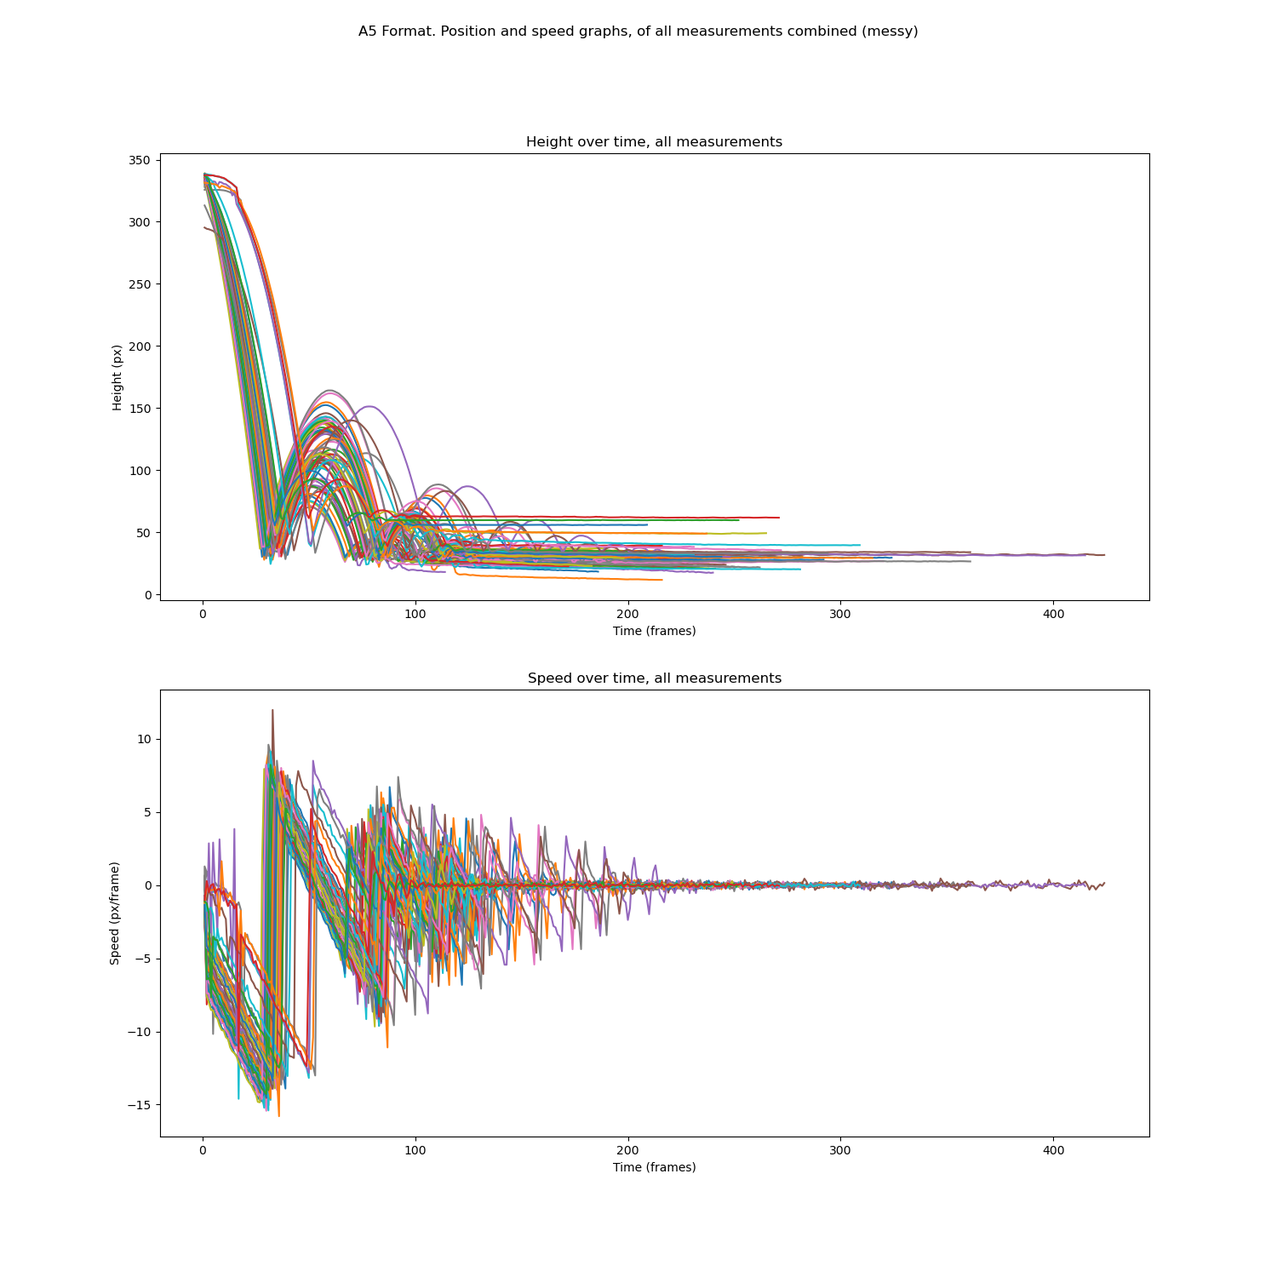
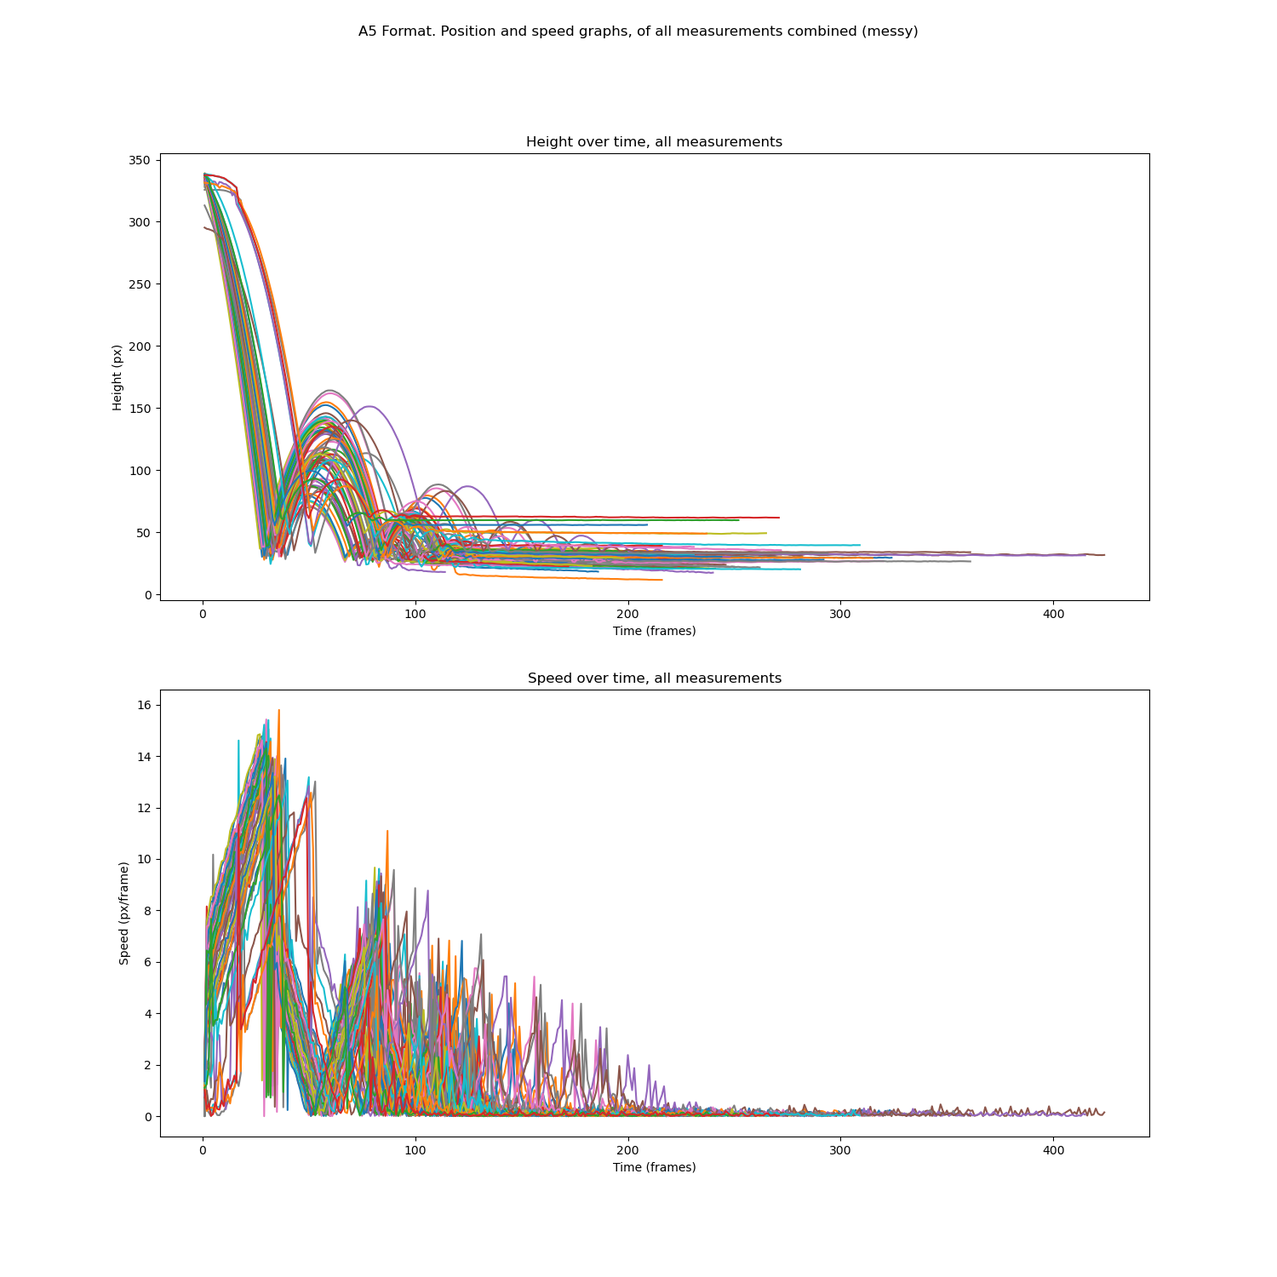
Added debugging tools, fixed CoR Height calculation

Changed region(s): [[0.1533, 0.552, 0.8587, 0.8893], [0.092, 0.6747, 0.1227, 0.7667]]

diff --git a/Code/AVG_SIGMA_PLOTTER.py b/Code/AVG_SIGMA_PLOTTER.py
@@ -9,9 +9,14 @@ import csv as csv
 import statistics as stat
 
 
-A4_CSV = open('E:/Documents/GitHub/2025-Projects_Team-1-Bouncing-on-Paper-The-Surprising-Restitution-Coefficient-of-a-Paper-Stack-/Code/A4_sanitized_data.csv', 'r')
-A5_B_CSV = open('E:/Documents/GitHub/2025-Projects_Team-1-Bouncing-on-Paper-The-Surprising-Restitution-Coefficient-of-a-Paper-Stack-/Code/A5_B_sanitized_data.csv', 'r')
-A5_O_CSV = open('E:/Documents/GitHub/2025-Projects_Team-1-Bouncing-on-Paper-The-Surprising-Restitution-Coefficient-of-a-Paper-Stack-/Code/A5_O_sanitized_data.csv', 'r')
+# A4_CSV = open('E:/Documents/GitHub/2025-Projects_Team-1-Bouncing-on-Paper-The-Surprising-Restitution-Coefficient-of-a-Paper-Stack-/Code/A4_sanitized_data.csv', 'r')
+# A5_B_CSV = open('E:/Documents/GitHub/2025-Projects_Team-1-Bouncing-on-Paper-The-Surprising-Restitution-Coefficient-of-a-Paper-Stack-/Code/A5_B_sanitized_data.csv', 'r')
+# A5_O_CSV = open('E:/Documents/GitHub/2025-Projects_Team-1-Bouncing-on-Paper-The-Surprising-Restitution-Coefficient-of-a-Paper-Stack-/Code/A5_O_sanitized_data.csv', 'r')
+
+A4_CSV = open('C:/Users/salad/Documents/GitHub/2025-Projects_Team-1-Bouncing-on-Paper-The-Surprising-Restitution-Coefficient-of-a-Paper-Stack-/Code/A4_sanitized_data.csv', 'r')
+A5_B_CSV = open('C:/Users/salad/Documents/GitHub/2025-Projects_Team-1-Bouncing-on-Paper-The-Surprising-Restitution-Coefficient-of-a-Paper-Stack-/Code/A5_B_sanitized_data.csv', 'r')
+A5_O_CSV = open('C:/Users/salad/Documents/GitHub/2025-Projects_Team-1-Bouncing-on-Paper-The-Surprising-Restitution-Coefficient-of-a-Paper-Stack-/Code/A5_O_sanitized_data.csv', 'r')
+
 
 with A4_CSV as A4:
     A4_papier_lijst = []
@@ -22,16 +27,16 @@ with A4_CSV as A4:
 
     A4_compressed_papier_lijst = []
     A4_avg_h_lijst = []
-    A4_sigma_h_lijst = []
+    A4_fout_h_lijst = []
     A4_avg_v_lijst = []
-    A4_sigma_v_lijst = []
+    A4_fout_v_lijst = []
 
     for row in A4:
         column = row.split(',')
 
         if column[0] != 'A4_papier_lijst':
             A4_papier_lijst.append(int(column[0]))
-            A4_coefficienten_1_h_lijst.append(float(column[1]))
+            A4_coefficienten_1_h_lijst.append(np.sqrt(float(column[1])))
             A4_fout_coefficienten_1_h_lijst.append(float(column[2]))
             A4_coefficienten_1_v_lijst.append(float(column[3]))
             A4_fout_coefficienten_1_v_lijst.append(float(column[4]))
@@ -40,11 +45,13 @@ with A4_CSV as A4:
         if A4_papier_lijst[papier] == A4_papier_lijst[papier + 1] == A4_papier_lijst[papier + 2]:
             A4_compressed_papier_lijst.append(A4_papier_lijst[papier])
             A4_temp_h_list = [A4_coefficienten_1_h_lijst[papier], A4_coefficienten_1_h_lijst[papier + 1], A4_coefficienten_1_h_lijst[papier + 2]]
+            A4_fout_temp_h_list = [A4_fout_coefficienten_1_h_lijst[papier], A4_fout_coefficienten_1_h_lijst[papier + 1], A4_fout_coefficienten_1_h_lijst[papier + 2]]
             A4_avg_h_lijst.append(float(np.mean(A4_temp_h_list)))
-            A4_sigma_h_lijst.append(float(np.std(A4_temp_h_list)))
+            A4_fout_h_lijst.append(float(np.sqrt(np.std(A4_temp_h_list) + np.var(A4_fout_temp_h_list))))
             A4_temp_v_list = [A4_coefficienten_1_v_lijst[papier], A4_coefficienten_1_v_lijst[papier + 1], A4_coefficienten_1_v_lijst[papier + 2]]
+            A4_fout_temp_v_list = [A4_fout_coefficienten_1_v_lijst[papier], A4_fout_coefficienten_1_v_lijst[papier + 1], A4_fout_coefficienten_1_v_lijst[papier + 2]]
             A4_avg_v_lijst.append(float(np.mean(A4_temp_v_list)))
-            A4_sigma_v_lijst.append(float(np.std(A4_temp_v_list)))
+            A4_fout_v_lijst.append(float(np.sqrt(np.std(A4_temp_v_list) + np.var(A4_fout_temp_v_list))))
         
 
     A4_CSV.close()
@@ -59,16 +66,16 @@ with A5_B_CSV as A5_B:
 
     A5_compressed_papier_lijst = []
     A5_avg_h_B_lijst = []
-    A5_sigma_h_B_lijst = []
+    A5_fout_h_B_lijst = []
     A5_avg_v_B_lijst = []
-    A5_sigma_v_B_lijst = []
+    A5_fout_v_B_lijst = []
 
     for row in A5_B:
         column = row.split(',')
 
         if column[0] != 'A5_papier_lijst':
             A5_papier_lijst.append(int(column[0]))
-            A5_coefficienten_1_h_B_lijst.append(float(column[1]))
+            A5_coefficienten_1_h_B_lijst.append(np.sqrt(float(column[1])))
             A5_fout_coefficienten_1_h_B_lijst.append(float(column[2]))
             A5_coefficienten_1_v_B_lijst.append(float(column[3]))
             A5_fout_coefficienten_1_v_B_lijst.append(float(column[4]))
@@ -77,11 +84,13 @@ with A5_B_CSV as A5_B:
         if A5_papier_lijst[papier] == A5_papier_lijst[papier + 1]:
             A5_compressed_papier_lijst.append(A5_papier_lijst[papier])
             A5_temp_h_B_list = [A5_coefficienten_1_h_B_lijst[papier], A5_coefficienten_1_h_B_lijst[papier + 1]]
+            A5_fout_temp_h_B_list = [A5_fout_coefficienten_1_h_B_lijst[papier], A5_fout_coefficienten_1_h_B_lijst[papier + 1]]
             A5_avg_h_B_lijst.append(float(np.mean(A5_temp_h_B_list)))
-            A5_sigma_h_B_lijst.append(float(np.std(A5_temp_h_B_list)))
+            A5_fout_h_B_lijst.append(float(np.sqrt(np.std(A5_temp_h_B_list) + np.var(A5_fout_temp_h_B_list))))
             A5_temp_v_B_list = [A5_coefficienten_1_v_B_lijst[papier], A5_coefficienten_1_v_B_lijst[papier + 1]]
+            A5_fout_temp_v_B_list = [A5_fout_coefficienten_1_v_B_lijst[papier], A5_fout_coefficienten_1_v_B_lijst[papier + 1]]
             A5_avg_v_B_lijst.append(float(np.mean(A5_temp_v_B_list)))
-            A5_sigma_v_B_lijst.append(float(np.std(A5_temp_v_B_list)))
+            A5_fout_v_B_lijst.append(float(np.sqrt(np.std(A5_temp_v_B_list) + np.var(A5_fout_temp_v_B_list))))
         
 
     A5_B_CSV.close()
@@ -96,16 +105,16 @@ with A5_O_CSV as A5_O:
 
     A5_compressed_papier_lijst = []
     A5_avg_h_O_lijst = []
-    A5_sigma_h_O_lijst = []
+    A5_fout_h_O_lijst = []
     A5_avg_v_O_lijst = []
-    A5_sigma_v_O_lijst = []
+    A5_fout_v_O_lijst = []
 
     for row in A5_O:
         column = row.split(',')
 
         if column[0] != 'A5_papier_lijst':
             A5_papier_lijst.append(int(column[0]))
-            A5_coefficienten_1_h_O_lijst.append(float(column[1]))
+            A5_coefficienten_1_h_O_lijst.append(np.sqrt(float(column[1])))
             A5_fout_coefficienten_1_h_O_lijst.append(float(column[2]))
             A5_coefficienten_1_v_O_lijst.append(float(column[3]))
             A5_fout_coefficienten_1_v_O_lijst.append(float(column[4]))
@@ -114,11 +123,13 @@ with A5_O_CSV as A5_O:
         if A5_papier_lijst[papier] == A5_papier_lijst[papier + 1]:
             A5_compressed_papier_lijst.append(A5_papier_lijst[papier])
             A5_temp_h_O_list = [A5_coefficienten_1_h_O_lijst[papier], A5_coefficienten_1_h_O_lijst[papier + 1]]
+            A5_fout_temp_h_O_list = [A5_fout_coefficienten_1_h_O_lijst[papier], A5_fout_coefficienten_1_h_O_lijst[papier + 1]]
             A5_avg_h_O_lijst.append(float(np.mean(A5_temp_h_O_list)))
-            A5_sigma_h_O_lijst.append(float(np.std(A5_temp_h_O_list)))
+            A5_fout_h_O_lijst.append(float(np.sqrt(np.std(A5_temp_h_O_list) + np.var(A5_fout_temp_h_O_list))))
             A5_temp_v_O_list = [A5_coefficienten_1_v_O_lijst[papier], A5_coefficienten_1_v_O_lijst[papier + 1]]
+            A5_fout_temp_v_O_list = [A5_fout_coefficienten_1_v_O_lijst[papier], A5_fout_coefficienten_1_v_O_lijst[papier + 1]]
             A5_avg_v_O_lijst.append(float(np.mean(A5_temp_v_O_list)))
-            A5_sigma_v_O_lijst.append(float(np.std(A5_temp_v_O_list)))
+            A5_fout_v_O_lijst.append(float(np.sqrt(np.std(A5_temp_v_O_list) + np.var(A5_fout_temp_v_O_list))))
         
 
     A5_O_CSV.close()
@@ -128,15 +139,15 @@ plt.figure(1, figsize=(15, 5))
 plt.suptitle('A4 and A5 format combined. Restitutioncoefficient, calculated with h1/h0 and v1/v0. Average of all measurements with standard deviation')
 plt.subplot(121)
 plt.title('h1/h0 calculation')
-plt.errorbar(A4_compressed_papier_lijst, A4_avg_h_lijst, yerr=A4_sigma_h_lijst, capsize=3, fmt='o', ecolor = "black", label='A4 data and standard deviation', markersize='5')
-plt.errorbar(A5_compressed_papier_lijst, A5_avg_h_B_lijst, yerr=A5_sigma_h_B_lijst, capsize=3, fmt='o', ecolor = "black", label='A5 data and standard deviation', markersize='5')
+plt.errorbar(A4_compressed_papier_lijst, A4_avg_h_lijst, yerr=A4_fout_h_lijst, capsize=3, fmt='o', ecolor = "black", label='A4 data and standard deviation', markersize='5')
+plt.errorbar(A5_compressed_papier_lijst, A5_avg_h_B_lijst, yerr=A5_fout_h_B_lijst, capsize=3, fmt='o', ecolor = "black", label='A5 data and standard deviation', markersize='5')
 plt.xlabel('# of paper pages (amount)')
 plt.ylabel('Restitutioncoefficient (ratio)')
 plt.legend()
 plt.subplot(122)
 plt.title('v1/v0 calculation')
-plt.errorbar(A4_compressed_papier_lijst, A4_avg_v_lijst, yerr=A4_sigma_v_lijst, capsize=3, fmt='o', ecolor = "black", label='A4 data and standard deviation', markersize='5')
-plt.errorbar(A5_compressed_papier_lijst, A5_avg_v_B_lijst, yerr=A5_sigma_v_B_lijst, capsize=3, fmt='o', ecolor = "black", label='A5 data and standard deviation', markersize='5')
+plt.errorbar(A4_compressed_papier_lijst, A4_avg_v_lijst, yerr=A4_fout_v_lijst, capsize=3, fmt='o', ecolor = "black", label='A4 data and standard deviation', markersize='5')
+plt.errorbar(A5_compressed_papier_lijst, A5_avg_v_B_lijst, yerr=A5_fout_v_B_lijst, capsize=3, fmt='o', ecolor = "black", label='A5 data and standard deviation', markersize='5')
 plt.xlabel('# of paper pages (amount)')
 plt.ylabel('Restitutioncoefficient (ratio)')
 plt.legend()
@@ -147,17 +158,44 @@ plt.figure(2, figsize=(15, 5))
 plt.suptitle('A5 format, dropped from half the height of original measurements. Restitutioncoefficient, calculated with h1/h0 and v1/v0. Average of all measurements with standard deviation')
 plt.subplot(221)
 plt.title('h1/h0 calculation')
-plt.errorbar(A5_compressed_papier_lijst, A5_avg_h_O_lijst, yerr=A5_sigma_h_O_lijst, capsize=3, fmt='o', ecolor = "black", label='A5', markersize='5', color='darkorange')
+plt.errorbar(A5_compressed_papier_lijst, A5_avg_h_O_lijst, yerr=A5_fout_h_O_lijst, capsize=3, fmt='o', ecolor = "black", label='A5', markersize='5', color='darkorange')
 plt.xlabel('# of paper pages (amount)')
 plt.ylabel('Restitutioncoefficient (ratio)')
 plt.legend()
 plt.subplot(222)
 plt.title('v1/v0 calculation')
-plt.errorbar(A5_compressed_papier_lijst, A5_avg_v_O_lijst, yerr=A5_sigma_v_O_lijst, capsize=3, fmt='o', ecolor = "black", label='A5', markersize='5', color='darkorange')
+plt.errorbar(A5_compressed_papier_lijst, A5_avg_v_O_lijst, yerr=A5_fout_v_O_lijst, capsize=3, fmt='o', ecolor = "black", label='A5', markersize='5', color='darkorange')
 plt.xlabel('# of paper pages (amount)')
 plt.ylabel('Restitutioncoefficient (ratio)')
 plt.legend()
 plt.savefig('A5_COR_LOW_AVG_SIGMA')
+
+
+plt.figure(3, figsize=(15, 5))
+plt.subplot(321)
+# plt.plot(A4_compressed_papier_lijst, A4_avg_h_lijst, 'o')
+plt.plot(A4_papier_lijst, A4_coefficienten_1_h_lijst, 'o')
+# plt.errorbar(A4_papier_lijst, A4_coefficienten_1_h_lijst, yerr=A4_fout_coefficienten_1_h_lijst, capsize=3, fmt='o', ecolor = "black", label='A4', markersize='5', color='darkorange')
+plt.subplot(322)
+# plt.errorbar(A4_papier_lijst, A4_coefficienten_1_v_lijst, yerr=A4_fout_coefficienten_1_v_lijst, capsize=3, fmt='o', ecolor = "black", label='A4', markersize='5', color='darkorange')
+# plt.plot(A4_compressed_papier_lijst, A4_avg_v_lijst, 'o')
+plt.plot(A4_papier_lijst, A4_coefficienten_1_v_lijst, 'o')
+
+plt.figure(4, figsize=(15, 5))
+plt.subplot(421)
+# plt.errorbar(A5_papier_lijst, A5_coefficienten_1_h_B_lijst, yerr=A5_fout_coefficienten_1_h_B_lijst, capsize=3, fmt='o', ecolor = "black", label='A5', markersize='5', color='darkorange')
+plt.plot(A5_papier_lijst, A5_coefficienten_1_h_B_lijst, 'o')
+plt.subplot(422)
+# plt.errorbar(A5_papier_lijst, A5_coefficienten_1_v_B_lijst, yerr=A5_fout_coefficienten_1_v_B_lijst, capsize=3, fmt='o', ecolor = "black", label='A5', markersize='5', color='darkorange')
+plt.plot(A5_papier_lijst, A5_coefficienten_1_v_B_lijst, 'o')
+
+plt.figure(5, figsize=(15, 5))
+plt.subplot(521)
+plt.plot(A5_papier_lijst, A5_coefficienten_1_h_O_lijst, 'o')
+# plt.errorbar(A5_papier_lijst, A5_coefficienten_1_h_O_lijst, yerr=A5_fout_coefficienten_1_h_O_lijst, capsize=3, fmt='o', ecolor = "black", label='A5', markersize='5', color='darkorange')
+plt.subplot(522)
+# plt.errorbar(A5_papier_lijst, A5_coefficienten_1_v_O_lijst, yerr=A5_fout_coefficienten_1_v_O_lijst, capsize=3, fmt='o', ecolor = "black", label='A5', markersize='5', color='darkorange')
+plt.plot(A5_papier_lijst, A5_coefficienten_1_v_O_lijst, 'o')
 
 
 plt.show()

diff --git a/Code/A5 Medium knikker (blauw)/A5_automated.py b/Code/A5 Medium knikker (blauw)/A5_automated.py
@@ -27,7 +27,7 @@ for b in b_lijst:
     for a in a_lijst:
         papier_lijst.append(b)
         # for h in h_lijst:
-        with open(f'E:/Documents/GitHub/2025-Projects_Team-1-Bouncing-on-Paper-The-Surprising-Restitution-Coefficient-of-a-Paper-Stack-/Code/A5 Medium knikker (blauw)/{a}-{b}-O-A5.csv', 'r') as yurr:
+        with open(f'C:/Users/salad/Documents/GitHub/2025-Projects_Team-1-Bouncing-on-Paper-The-Surprising-Restitution-Coefficient-of-a-Paper-Stack-/Code/A5 Medium knikker (blauw)/{a}-{b}-O-A5.csv', 'r') as yurr:
             hoogte_lijst = []
             frame_lijst = []
             frame_delta = 0
@@ -106,8 +106,10 @@ for b in b_lijst:
             impact_frames = []
             impact_snelheden = []
             impact_tijd_schatting = []
+            speeds_around_impact = []
+
             for i in range(0, len(snelheden)):
-                if snelheden[i - 1] > 0 and snelheden[i] < 0 and len(maxima_frames) <= 3 and i > 40:  # filter op realistische waarde
+                if snelheden[i - 1] > 0 and snelheden[i] < 0 and len(maxima_frames) <= 3 and i > 20:  # filter op realistische waarde
                     maxima_frames.append(i)
                     maxima_hoogtes.append(hoogte_lijst[i])
                     schatting_max_hoogte = hoogte_lijst[i-1] + (snelheden[i - 1]/(snelheden[i - 1] - snelheden[i])) * (hoogte_lijst[i] - hoogte_lijst[i-1])
@@ -116,7 +118,7 @@ for b in b_lijst:
                     maxima_tijden_schatting.append(schatting_max_tijd)
                     maxima_hoogte_schatting.append(schatting_max_hoogte)
                     fout_maxima_hoogte.append(fout_maximale_hoogte)                    
-                if snelheden[i - 1] < 0 and snelheden[i] > 0 and len(impact_snelheden) <= 3 and i > 40:
+                if snelheden[i - 1] < 0 and snelheden[i] > 0 and len(impact_snelheden) <= 3 and i > 20:
                     impact_snelheden.append(abs(snelheden[i - 4]))
                     impact_snelheden.append(snelheden[i + 1])
                     impact_frames.append(i - 4)
@@ -128,11 +130,17 @@ for b in b_lijst:
 
             print(f'maximum points zijn {maxima_frames}')
             print(f'maximum hoogtes zijn {maxima_hoogtes}')
+            print(f'impact frames zijn {impact_frames}')
+            print(f'impact speeds are {impact_snelheden}')
+            print(f'Speeds around impact are ')
+
 
 
             # Restitutiecoëfficiënten berekenen: hoogte_n / hoogte_(n-1)
             cor1_h = maxima_hoogtes[1] / maxima_hoogtes[0]
             fout_cor1_h = cor1_h * ((fout_maxima_hoogte[1]/maxima_hoogte_schatting[1])**2 + (fout_maxima_hoogte[0]/maxima_hoogte_schatting[0])**2)**0.5
+            cor2_h = maxima_hoogtes[2] / maxima_hoogtes[1]
+            cor3_h = maxima_hoogtes[3] / maxima_hoogtes[2]
 
             cor1_v = impact_snelheden[1] / impact_snelheden[0]
             fout_cor1_v = cor1_v * ((fout_snelheden[impact_frames[1]]/impact_tijd_schatting[1])**2 + (fout_snelheden[impact_frames[0]]/impact_tijd_schatting[0])**2)**0.5
@@ -149,33 +157,32 @@ for b in b_lijst:
 
             #     coefficienten_1_v_O_lijst.append(cor1_v)
 
-        plt.figure(1, figsize=(15, 15))
-        plt.suptitle('A5 Format. Position and speed graphs, of all measurements combined (messy)')
-        plt.subplot(211)
-        plt.title('Height over time, all measurements')
-        plt.plot(frame_lijst, hoogte_lijst)
-        plt.xlabel('Time (frames)')
-        plt.ylabel('Height (px)')
-        
-        plt.subplot(212)
-        plt.title('Speed over time, all measurements')
-        plt.plot(frame_lijst, snelheden)
-        plt.xlabel('Time (frames)')
-        plt.ylabel('Speed (px/frame)')
-        # plt.xlim(0, 400)
-        # plt.ylim(-20, 20)
-        plt.savefig('A5_AUTOMATED_POS_AND_SPEED.png')
+            plt.figure(1, figsize=(15, 15))
+            plt.suptitle('A5 Format. Position and speed graphs, of all measurements combined (messy)')
+            plt.subplot(211)
+            plt.title('Height over time, all measurements')
+            plt.plot(frame_lijst, hoogte_lijst)
+            plt.xlabel('Time (frames)')
+            plt.ylabel('Height (px)')
 
-        test_max_snelheid.append(max(snelheden))
-        # print(cor1, cor2, cor3)
-        test_minimale_hoogte.append(min(hoogte_lijst))
-        
-        print(impact_frames)
-        print(impact_snelheden)
-        print(f'File: {a}-{b}-O')
+            plt.subplot(212)
+            plt.title('Speed over time, all measurements')
+            plt.plot(frame_lijst, np.abs(snelheden))
+            plt.xlabel('Time (frames)')
+            plt.ylabel('Speed (px/frame)')
+            # plt.xlim(0, 400)
+            # plt.ylim(-20, 20)
+            plt.savefig('A5_AUTOMATED_POS_AND_SPEED.png')
+
+test_max_snelheid.append(max(snelheden))
+# print(cor1, cor2, cor3)
+test_minimale_hoogte.append(min(hoogte_lijst))
+
+print(impact_frames)
+print(impact_snelheden)
+# print(f'File: {a}-{b}-O')
 
 # print(impact_snelheden)
-
 
 plt.figure(2, figsize=(15, 10))
 plt.suptitle('A5 Format. CoR against amount of paper pages, with "low" starting height (half of starting height from A4/A5 "high" measurements), all measurements')
@@ -189,7 +196,8 @@ plt.legend()
 
 plt.subplot(222)
 plt.title('CoR calculated with speed ratio (v_after_impact / v_before_impact)')
-plt.errorbar(papier_lijst, coefficienten_1_v_B_lijst, yerr=fout_coefficienten_1_v_B_lijst, capsize=3, fmt='o', ecolor = "black", label='v1/v0 (first impact)', markersize= '3', color='darkorange')
+# plt.errorbar(papier_lijst, coefficienten_1_v_B_lijst, yerr=fout_coefficienten_1_v_B_lijst, capsize=3, fmt='o', ecolor = "black", label='v1/v0 (first impact)', markersize= '3', color='darkorange')
+plt.plot(papier_lijst, coefficienten_1_v_B_lijst, 'o')
 # plt.ylim(0, 0.6)
 plt.xlabel('# of paper pages (amount)')
 plt.ylabel('Restitutioncoefficient (ratio)')
@@ -224,10 +232,10 @@ print(min(test_minimale_hoogte))
 print(max(test_max_snelheid))
 
 
-with open('E:/Documents/GitHub/2025-Projects_Team-1-Bouncing-on-Paper-The-Surprising-Restitution-Coefficient-of-a-Paper-Stack-/Code/A5_O_sanitized_data.csv', 'w', newline='') as A5writer:
-    writer = csv.writer(A5writer)
-    header = ["A5_papier_lijst", "A5_coefficienten_1_h_O_lijst", "A5_fout_coefficienten_1_h_O_lijst", "A5_coefficienten_1_v_O_lijst", "A5_fout_coefficienten_1_v_O_lijst"]
+# with open('E:/Documents/GitHub/2025-Projects_Team-1-Bouncing-on-Paper-The-Surprising-Restitution-Coefficient-of-a-Paper-Stack-/Code/A5_O_sanitized_data.csv', 'w', newline='') as A5writer:
+#     writer = csv.writer(A5writer)
+#     header = ["A5_papier_lijst", "A5_coefficienten_1_h_O_lijst", "A5_fout_coefficienten_1_h_O_lijst", "A5_coefficienten_1_v_O_lijst", "A5_fout_coefficienten_1_v_O_lijst"]
 
-    writer.writerow(header)
-    for i in range(0, len(papier_lijst)):
-        writer.writerow([papier_lijst[i], coefficienten_1_h_B_lijst[i], fout_coefficienten_1_h_B_lijst[i], coefficienten_1_v_B_lijst[i], fout_coefficienten_1_v_B_lijst[i]])
+#     writer.writerow(header)
+#     for i in range(0, len(papier_lijst)):
+#         writer.writerow([papier_lijst[i], coefficienten_1_h_B_lijst[i], fout_coefficienten_1_h_B_lijst[i], coefficienten_1_v_B_lijst[i], fout_coefficienten_1_v_B_lijst[i]])

diff --git a/Code/A4_and_A5_automated.py b/Code/A4_and_A5_automated.py
@@ -24,7 +24,7 @@ A4_papier_lijst = []
 
 for b in b_lijst:
   for a in a_lijst:
-        with open(f'E:/Documents/GitHub/2025-Projects_Team-1-Bouncing-on-Paper-The-Surprising-Restitution-Coefficient-of-a-Paper-Stack-/Code/A4 Medium knikker (blauw)/{a}-{b}-M.csv', 'r') as yurr:
+        with open(f'C:/Users/salad/Documents/GitHub/2025-Projects_Team-1-Bouncing-on-Paper-The-Surprising-Restitution-Coefficient-of-a-Paper-Stack-/Code/A4 Medium knikker (blauw)/{a}-{b}-M.csv', 'r') as yurr:
             hoogte_lijst = []
             frame_lijst = []
             frame_delta = 0
@@ -125,7 +125,8 @@ for b in b_lijst:
 
             print(f'maximum points zijn {maxima_frames}')
             print(f'maximum hoogtes zijn {maxima_hoogtes}')
-
+            print(f'impact frames are {impact_frames}')
+            print(f'impact speeds are {impact_snelheden}')
 
             # Restitutiecoëfficiënten berekenen: hoogte_n / hoogte_(n-1)
             cor1_h = maxima_hoogtes[1] / maxima_hoogtes[0]
@@ -133,7 +134,7 @@ for b in b_lijst:
 
             cor1_v = impact_snelheden[1] / impact_snelheden[0]
             fout_cor1_v = cor1_v * ((fout_snelheden[impact_frames[1]]/impact_tijd_schatting[1])**2 + (fout_snelheden[impact_frames[0]]/impact_tijd_schatting[0])**2)**0.5
-
+            
             A4_coefficienten_1_h_lijst.append(cor1_h)
             A4_fout_coefficienten_1_h_lijst.append(fout_cor1_h)
 
@@ -199,7 +200,7 @@ for b in b_lijst:
     for a in a_lijst:
         A5_papier_lijst.append(b)
         # for h in h_lijst:
-        with open(f'E:/Documents/GitHub/2025-Projects_Team-1-Bouncing-on-Paper-The-Surprising-Restitution-Coefficient-of-a-Paper-Stack-/Code/A5 Medium knikker (blauw)/{a}-{b}-B-A5.csv', 'r') as yurr:
+        with open(f'C:/Users/salad/Documents/GitHub/2025-Projects_Team-1-Bouncing-on-Paper-The-Surprising-Restitution-Coefficient-of-a-Paper-Stack-/Code/A5 Medium knikker (blauw)/{a}-{b}-B-A5.csv', 'r') as yurr:
             hoogte_lijst = []
             frame_lijst = []
             frame_delta = 0
@@ -301,6 +302,8 @@ for b in b_lijst:
 
             print(f'maximum points zijn {maxima_frames}')
             print(f'maximum hoogtes zijn {maxima_hoogtes}')
+            print(f'impact frames are {impact_frames}')
+            print(f'impact speeds are {impact_snelheden}')
 
 
             # Restitutiecoëfficiënten berekenen: hoogte_n / hoogte_(n-1)
@@ -354,7 +357,7 @@ plt.suptitle('A4 and A5 combined. CoR against amount of paper pages, all measure
 plt.subplot(321)
 plt.title('CoR calculated with height ratio (h_after_bounce / h_initial)')
 plt.errorbar(A4_papier_lijst, A4_coefficienten_1_h_lijst, yerr=A4_fout_coefficienten_1_h_lijst, capsize=3, fmt='o', ecolor = "black", label='A4, h1/h0 (first bounce)', markersize = '3')
-plt.errorbar(A5_papier_lijst, A5_coefficienten_1_h_B_lijst, yerr=A5_fout_coefficienten_1_h_B_lijst, capsize=3, fmt='o', ecolor = "black", label='A5, h1/h0 (first bounce)', markersize = '3')
+# plt.errorbar(A5_papier_lijst, A5_coefficienten_1_h_B_lijst, yerr=A5_fout_coefficienten_1_h_B_lijst, capsize=3, fmt='o', ecolor = "black", label='A5, h1/h0 (first bounce)', markersize = '3')
 plt.xlabel('# of paper pages (amount)')
 plt.ylabel('Restitutioncoefficient (ratio)')
 # plt.ylim(0, 0.6)
@@ -363,7 +366,7 @@ plt.legend()
 plt.subplot(322)
 plt.title('CoR calculated with speed ratio (v_after_impact / v_before_impact)')
 plt.errorbar(A4_papier_lijst, A4_coefficienten_1_v_lijst, yerr=A4_fout_coefficienten_1_v_lijst, capsize=3, fmt='o', ecolor = "black", label='A4, v1/v0 (first impact)', markersize= '3')
-plt.errorbar(A5_papier_lijst, A5_coefficienten_1_v_B_lijst, yerr=A5_fout_coefficienten_1_v_B_lijst, capsize=3, fmt='o', ecolor = "black", label='A5, v1/v0 (first impact)', markersize= '3')
+# plt.errorbar(A5_papier_lijst, A5_coefficienten_1_v_B_lijst, yerr=A5_fout_coefficienten_1_v_B_lijst, capsize=3, fmt='o', ecolor = "black", label='A5, v1/v0 (first impact)', markersize= '3')
 # plt.ylim(0, 0.6)
 plt.xlabel('# of paper pages (amount)')
 plt.ylabel('Restitutioncoefficient (ratio)')
